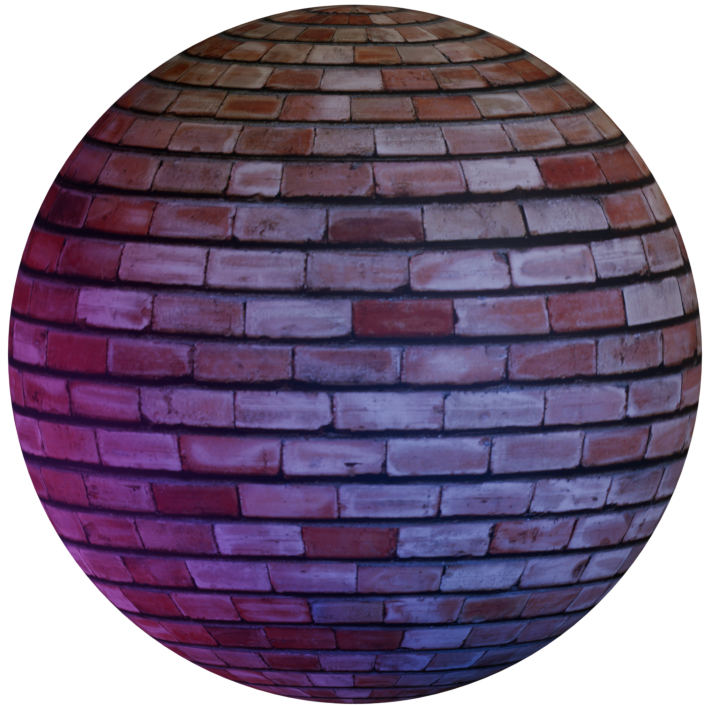
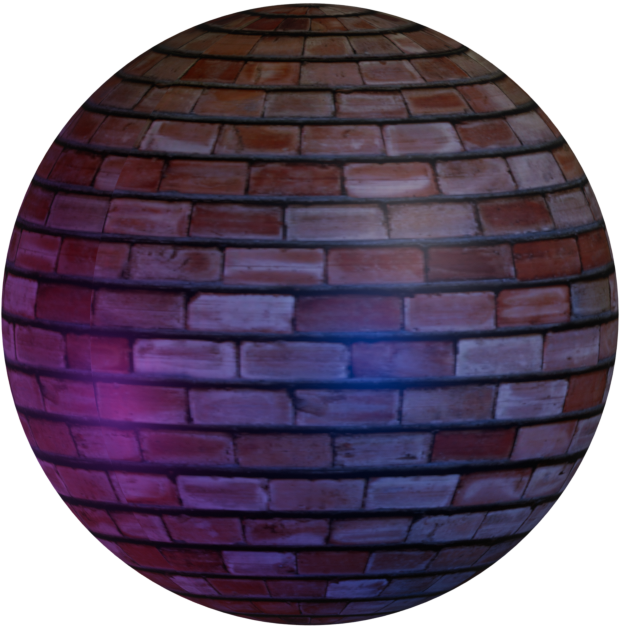
New Textures + Buttons

diff --git a/src/App.js b/src/App.js
@@ -1,4 +1,4 @@
-import React, { useState, useEffect } from 'react';
+import React, { useState, useEffect, useRef } from 'react';
 import ImageComparisonSlider from './ImageComparisonSlider';
 import { TextReveal, GradientText, FloatingElement, AnimatedButton, StaggeredList } from './AnimationComponents';
 import './AnimationStyles.css';
@@ -6,32 +6,110 @@ import './AnimationStyles.css';
 const NormalNetApp = () => {
   const [isLoaded, setIsLoaded] = useState(false);
   
+  // Refs for scroll navigation
+  const homeRef = useRef(null);
+  const examplesRef = useRef(null);
+  const contributeRef = useRef(null);
+  const donateRef = useRef(null);
+  const contactRef = useRef(null);
+  
   useEffect(() => {
     setIsLoaded(true);
   }, []);
+  
+  // Scroll to section functions
+  const scrollToSection = (ref) => {
+    ref.current?.scrollIntoView({ behavior: 'smooth' });
+  };
+  
   return (
     <div className="min-h-screen bg-black text-white flex flex-col">
       {/* Navigation Bar */}
-      <nav className="p-4 flex justify-between items-center border-b border-gray-800 animate-fade-in">
+      <nav className="p-4 flex justify-between items-center border-b border-gray-800 animate-fade-in sticky top-0 bg-black z-10">
         <div className="text-xl font-bold tracking-wide">
           Normal-Net
         </div>
         <div className="flex space-x-6">
-          {['home', 'examples', 'contribute', 'donate', 'contact'].map((item, index) => (
-            <a 
-              key={item} 
-              href="#" 
-              className="nav-link-effect hover:text-gray-300 text-sm animate-slide-in"
-              style={{ 
-                animationDelay: `${500 + (index * 100)}ms`,
-                animationFillMode: 'both',
-                opacity: 0
-              }}
-              onAnimationEnd={(e) => e.target.style.opacity = 1}
-            >
-              {item}
-            </a>
-          ))}
+          <a 
+            href="#" 
+            className="nav-link-effect hover:text-gray-300 text-sm animate-slide-in"
+            onClick={(e) => {
+              e.preventDefault();
+              scrollToSection(homeRef);
+            }}
+            style={{ 
+              animationDelay: '500ms',
+              animationFillMode: 'both',
+              opacity: 0
+            }}
+            onAnimationEnd={(e) => e.target.style.opacity = 1}
+          >
+            home
+          </a>
+          <a 
+            href="#" 
+            className="nav-link-effect hover:text-gray-300 text-sm animate-slide-in"
+            onClick={(e) => {
+              e.preventDefault();
+              scrollToSection(examplesRef);
+            }}
+            style={{ 
+              animationDelay: '600ms',
+              animationFillMode: 'both',
+              opacity: 0
+            }}
+            onAnimationEnd={(e) => e.target.style.opacity = 1}
+          >
+            examples
+          </a>
+          <a 
+            href="#" 
+            className="nav-link-effect hover:text-gray-300 text-sm animate-slide-in"
+            onClick={(e) => {
+              e.preventDefault();
+              scrollToSection(contributeRef);
+            }}
+            style={{ 
+              animationDelay: '700ms',
+              animationFillMode: 'both',
+              opacity: 0
+            }}
+            onAnimationEnd={(e) => e.target.style.opacity = 1}
+          >
+            contribute
+          </a>
+          <a 
+            href="#" 
+            className="nav-link-effect hover:text-gray-300 text-sm animate-slide-in"
+            onClick={(e) => {
+              e.preventDefault();
+              scrollToSection(donateRef);
+            }}
+            style={{ 
+              animationDelay: '800ms',
+              animationFillMode: 'both',
+              opacity: 0
+            }}
+            onAnimationEnd={(e) => e.target.style.opacity = 1}
+          >
+            donate
+          </a>
+          <a 
+            href="#" 
+            className="nav-link-effect hover:text-gray-300 text-sm animate-slide-in"
+            onClick={(e) => {
+              e.preventDefault();
+              scrollToSection(contactRef);
+            }}
+            style={{ 
+              animationDelay: '900ms',
+              animationFillMode: 'both',
+              opacity: 0
+            }}
+            onAnimationEnd={(e) => e.target.style.opacity = 1}
+          >
+            contact
+          </a>
         </div>
       </nav>
 
@@ -47,15 +125,15 @@ const NormalNetApp = () => {
           </h1>
           <div className={`flex flex-row justify-center space-x-4 ${isLoaded ? 'animate-slide-in-delayed-2' : ''}`}>
             <AnimatedButton className="bg-transparent">
-              <a href="#" className="text-purple-400 hover:text-purple-300 inline-block transform transition-transform duration-300 hover:translate-y-[-2px]">blender addon</a>
+              <a href="https://github.com/soheilchavo/NormalNetAddon" target="_blank" className="text-purple-400 hover:text-purple-300 inline-block transform transition-transform duration-300 hover:translate-y-[-2px]">blender addon</a>
             </AnimatedButton>
             <AnimatedButton className="bg-transparent">
-              <a href="#" className="text-purple-400 hover:text-purple-300 inline-block transform transition-transform duration-300 hover:translate-y-[-2px]">gen ai app</a>
+              <a href="https://github.com/soheilchavo/NormalNet" target="_blank" className="text-purple-400 hover:text-purple-300 inline-block transform transition-transform duration-300 hover:translate-y-[-2px]">gen ai app</a>
             </AnimatedButton>
           </div>
           <div className={`mt-2 ${isLoaded ? 'animate-slide-in-delayed-3' : ''}`}>
             <AnimatedButton className="bg-transparent">
-              <a href="#" className="text-purple-400 hover:text-purple-300 inline-block transform transition-transform duration-300 hover:translate-y-[-2px]">medium article</a>
+              <a href="https://medium.com/@soheil.chavo/albedo-to-pbr-generating-realistic-materials-using-a-cgan-e1c2847e5bbc" target="_blank" className="text-purple-400 hover:text-purple-300 inline-block transform transition-transform duration-300 hover:translate-y-[-2px]">medium article</a>
             </AnimatedButton>
           </div>
         </div>
@@ -76,51 +154,141 @@ const NormalNetApp = () => {
       {/* Showcase Section */}
       <div className="mt-12 mb-10">
         <h2 className={`text-3xl font-bold text-center mb-8 ${isLoaded ? 'animate-slide-in-delayed-3' : ''}`}>
-          <GradientText>Material Examples</GradientText>
+          <GradientText>Examples</GradientText>
         </h2>
         <div className="flex flex-wrap justify-center gap-8 p-8">
-          {/* Sphere 1 - Brick texture */}
+          {/* Sphere 1 - Pebbles texture */}
           <div className={`flex justify-center ${isLoaded ? 'animate-slide-in-delayed-1' : 'opacity-0'}`}>
             <FloatingElement amplitude={6} duration={7}>
               <ImageComparisonSlider
-                beforeImage="/Assets/Brick-Before.png"
-                afterImage="/Assets/Brick-After.png"
+                beforeImage="/Assets/Pebbles-Before.png"
+                afterImage="/Assets/Pebbles-After.png"
                 alt=""
                 className="rounded-full w-48 h-48 shadow-lg hover:shadow-xl transition-shadow duration-300"
               />
             </FloatingElement>
           </div>
 
-          {/* Sphere 2 - Purple texture */}
-          <div className={`flex justify-center ${isLoaded ? 'animate-slide-in-delayed-2' : 'opacity-0'}`}>
-            <FloatingElement amplitude={6} duration={8}>
-              <img
-                src="/api/placeholder/200/200"
-                alt="Purple textured sphere"
-                className="rounded-full w-48 h-48 object-cover shadow-lg hover:shadow-xl transition-shadow duration-300"
+          {/* Sphere 2 -  Wood texture */}
+          <div className={`flex justify-center ${isLoaded ? 'animate-slide-in-delayed-1' : 'opacity-0'}`}>
+            <FloatingElement amplitude={6} duration={7}>
+              <ImageComparisonSlider
+                beforeImage="/Assets/Wood-Before.png"
+                afterImage="/Assets/Wood-After.png"
+                alt=""
+                className="rounded-full w-48 h-48 shadow-lg hover:shadow-xl transition-shadow duration-300"
               />
             </FloatingElement>
           </div>
 
-          {/* Sphere 3 - Blue texture */}
-          <div className={`flex justify-center ${isLoaded ? 'animate-slide-in-delayed-3' : 'opacity-0'}`}>
-            <FloatingElement amplitude={6} duration={6.5}>
-              <img
-                src="/api/placeholder/200/200"
-                alt="Blue textured sphere"
-                className="rounded-full w-48 h-48 object-cover shadow-lg hover:shadow-xl transition-shadow duration-300"
+          {/* Sphere 3 - Concrete texture */}
+          <div className={`flex justify-center ${isLoaded ? 'animate-slide-in-delayed-1' : 'opacity-0'}`}>
+            <FloatingElement amplitude={6} duration={7}>
+              <ImageComparisonSlider
+                beforeImage="/Assets/Concrete-Before.png"
+                afterImage="/Assets/Concrete-After.png"
+                alt=""
+                className="rounded-full w-48 h-48 shadow-lg hover:shadow-xl transition-shadow duration-300"
               />
             </FloatingElement>
           </div>
         </div>
       </div>
       
-      {/* Call to action */}
-      <div className={`text-center pb-16 ${isLoaded ? 'animate-slide-in-delayed-3' : 'opacity-0'}`}>
-        <AnimatedButton className="px-8 py-3 bg-gradient-to-r from-purple-500 to-pink-500 text-white rounded-full text-lg font-semibold shadow-lg hover:shadow-xl">
-          Try Normal-Net Today
-        </AnimatedButton>
+      {/* Contribute Section */}
+      <div ref={contributeRef} className="py-16 px-8 md:px-16 border-t border-gray-800">
+        <h2 className="text-3xl font-bold text-center mb-8">
+          <GradientText>Contribute</GradientText>
+        </h2>
+        <div className="max-w-3xl mx-auto text-center">
+          <p className="text-lg mb-8">
+            Normal-Net is an open-source project aimed at simplifying PBR texture generation for 3D artists and developers. 
+            We welcome contributions from the community, whether it's feature development, bug fixing, documentation, or simply sharing your creations.
+          </p>
+          <AnimatedButton className="px-6 py-2 bg-gray-800 text-white rounded-md shadow-md hover:bg-gray-700 transition-colors duration-300">
+            <a 
+              href="https://github.com/normal-net/repository" 
+              target="_blank" 
+              rel="noopener noreferrer"
+              className="flex items-center"
+            >
+              <svg className="w-5 h-5 mr-2" fill="currentColor" viewBox="0 0 24 24" aria-hidden="true">
+                <path fillRule="evenodd" d="M12 2C6.477 2 2 6.484 2 12.017c0 4.425 2.865 8.18 6.839 9.504.5.092.682-.217.682-.483 0-.237-.008-.868-.013-1.703-2.782.605-3.369-1.343-3.369-1.343-.454-1.158-1.11-1.466-1.11-1.466-.908-.62.069-.608.069-.608 1.003.07 1.531 1.032 1.531 1.032.892 1.53 2.341 1.088 2.91.832.092-.647.35-1.088.636-1.338-2.22-.253-4.555-1.113-4.555-4.951 0-1.093.39-1.988 1.029-2.688-.103-.253-.446-1.272.098-2.65 0 0 .84-.27 2.75 1.026A9.564 9.564 0 0112 6.844c.85.004 1.705.115 2.504.337 1.909-1.296 2.747-1.027 2.747-1.027.546 1.379.202 2.398.1 2.651.64.7 1.028 1.595 1.028 2.688 0 3.848-2.339 4.695-4.566 4.943.359.309.678.92.678 1.855 0 1.338-.012 2.419-.012 2.747 0 .268.18.58.688.482A10.019 10.019 0 0022 12.017C22 6.484 17.522 2 12 2z" clipRule="evenodd" />
+              </svg>
+              <span>Contribute on GitHub</span>
+            </a>
+          </AnimatedButton>
+        </div>
       </div>
+      
+      {/* Contact Section */}
+      <div ref={contactRef} className="py-16 px-8 md:px-16 border-t border-gray-800">
+        <h2 className="text-3xl font-bold text-center mb-8">
+          <GradientText>Contact Me</GradientText>
+        </h2>
+        <div className="max-w-3xl mx-auto text-center">
+          <p className="text-lg mb-6">
+            Have questions or feedback? We'd love to hear from you!
+          </p>
+          <div className="flex flex-col md:flex-row justify-center gap-4 max-w-md mx-auto">
+            <AnimatedButton className="px-6 py-2 bg-gray-800 text-white rounded-md shadow-md hover:bg-gray-700 transition-colors duration-300 flex-1">
+              <a 
+                href="mailto:contact@normal-net.org" 
+                className="flex items-center justify-center"
+              >
+                <svg className="w-5 h-5 mr-2" fill="none" stroke="currentColor" viewBox="0 0 24 24" xmlns="http://www.w3.org/2000/svg">
+                  <path strokeLinecap="round" strokeLinejoin="round" strokeWidth="2" d="M3 8l7.89 5.26a2 2 0 002.22 0L21 8M5 19h14a2 2 0 002-2V7a2 2 0 00-2-2H5a2 2 0 00-2 2v10a2 2 0 002 2z" />
+                </svg>
+                <span>Email Me</span>
+              </a>
+            </AnimatedButton>
+            <AnimatedButton className="px-6 py-2 bg-gray-800 text-white rounded-md shadow-md hover:bg-gray-700 transition-colors duration-300 flex-1">
+              <a 
+                href="https://github.com/normal-net/repository/issues" 
+                target="_blank" 
+                rel="noopener noreferrer"
+                className="flex items-center justify-center"
+              >
+                <svg className="w-5 h-5 mr-2" fill="currentColor" viewBox="0 0 24 24" aria-hidden="true">
+                  <path fillRule="evenodd" d="M12 2C6.477 2 2 6.484 2 12.017c0 4.425 2.865 8.18 6.839 9.504.5.092.682-.217.682-.483 0-.237-.008-.868-.013-1.703-2.782.605-3.369-1.343-3.369-1.343-.454-1.158-1.11-1.466-1.11-1.466-.908-.62.069-.608.069-.608 1.003.07 1.531 1.032 1.531 1.032.892 1.53 2.341 1.088 2.91.832.092-.647.35-1.088.636-1.338-2.22-.253-4.555-1.113-4.555-4.951 0-1.093.39-1.988 1.029-2.688-.103-.253-.446-1.272.098-2.65 0 0 .84-.27 2.75 1.026A9.564 9.564 0 0112 6.844c.85.004 1.705.115 2.504.337 1.909-1.296 2.747-1.027 2.747-1.027.546 1.379.202 2.398.1 2.651.64.7 1.028 1.595 1.028 2.688 0 3.848-2.339 4.695-4.566 4.943.359.309.678.92.678 1.855 0 1.338-.012 2.419-.012 2.747 0 .268.18.58.688.482A10.019 10.019 0 0022 12.017C22 6.484 17.522 2 12 2z" clipRule="evenodd" />
+                </svg>
+                <span>GitHub Issues</span>
+              </a>
+            </AnimatedButton>
+          </div>
+        </div>
+      </div>
+      
+      
+      {/* Donate Section */}
+      <div ref={donateRef} className="py-16 px-8 md:px-16 bg-gray-900">
+        <h2 className="text-3xl font-bold text-center mb-8">
+          <GradientText>Support the Project</GradientText>
+        </h2>
+        <div className="max-w-3xl mx-auto text-center">
+          <AnimatedButton className="px-6 py-2 bg-gradient-to-r from-purple-500 to-pink-500 text-white rounded-md shadow-md hover:shadow-lg transition-shadow duration-300">
+            <a 
+              href="https://donate.normal-net.org" 
+              target="_blank" 
+              rel="noopener noreferrer"
+              className="flex items-center justify-center"
+            >
+              <svg className="w-5 h-5 mr-2" fill="none" stroke="currentColor" viewBox="0 0 24 24" xmlns="http://www.w3.org/2000/svg">
+                <path strokeLinecap="round" strokeLinejoin="round" strokeWidth="2" d="M4.318 6.318a4.5 4.5 0 000 6.364L12 20.364l7.682-7.682a4.5 4.5 0 00-6.364-6.364L12 7.636l-1.318-1.318a4.5 4.5 0 00-6.364 0z" />
+              </svg>
+              <span>Donate</span>
+            </a>
+          </AnimatedButton>
+        </div>
+      </div>
+
+      {/* Footer */}
+      <footer className="py-8 border-t border-gray-800 text-center text-gray-400 text-sm">
+        <div className="container mx-auto">
+          <p>© {new Date().getFullYear()} Normal-Net. All rights reserved.</p>
+          <p className="mt-2">A one-click solution for PBR texture generation.</p>
+        </div>
+      </footer>
     </div>
   );
 };
